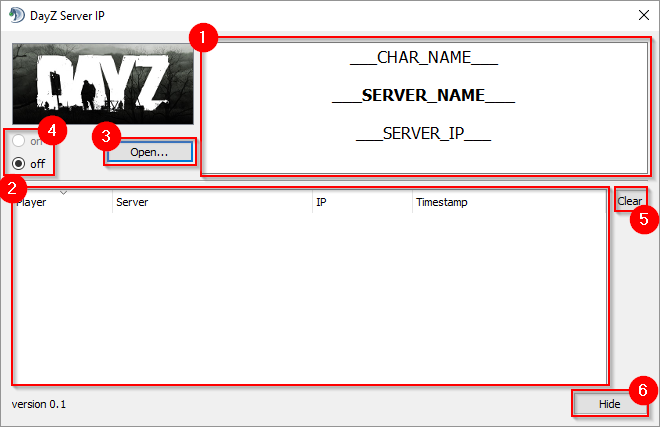
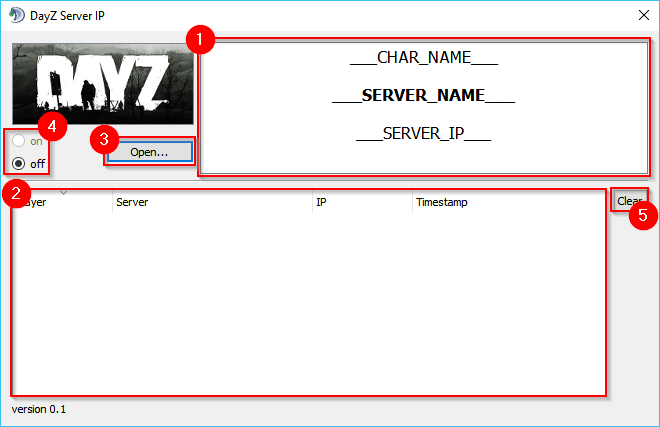
Update screenshots

Changed region(s): [[0.0, 0.0304, 1.0, 1.0], [0.9697, 0.0, 1.0, 0.0304], [0.0, 0.0, 0.0303, 0.0304]]

diff --git a/doc/MANUAL.md b/doc/MANUAL.md
@@ -30,9 +30,9 @@ Now you're half way there. This is what it looks like on its first start.
 ![alt-text](/doc/png/main_window_init.png)
 
 ### Description
-Most of the upper half of the window is the "local info" section __(1)__. This is where your own ingame name, server name and IP are shown. The lower half is the "remote info" section __(2)__. It shows everybody else's ingame name, server name and server IP along with a timestamp to indicate when the last update was received.
+Most of the upper half of the window is the "local info" section __(1)__. This is where your own ingame name, server name and IP are shown. The lower half is the "remote info" section __(2)__. It shows everybody else's ingame name, server name and server IP along with a timestamp to indicate when the last update was received. You can clear this view by clicking the `Clear` button.
 
-You have to click the `Open...` button __(3)__ to select your `.DayZProfile` file that will be used to gather your data. Once you've selected a valid profile, the radiobuttons on the left side __(4)__ become active (well, the `on` button does). If you select `on` the plugin will start to send your data via textmessages to the TeamSpeak channel.
+You have to click the `Open...` button __(3)__ to select your `.DayZProfile` file that will be used to gather your data. Once you've selected a valid profile, the radiobuttons on the left side __(4)__ become active (well, the `on` button does). If you select `on` the plugin will start to send your data via text messages to the TeamSpeak channel.
 
 ![alt-text](/doc/png/main_window_init_annotated.png)
 
